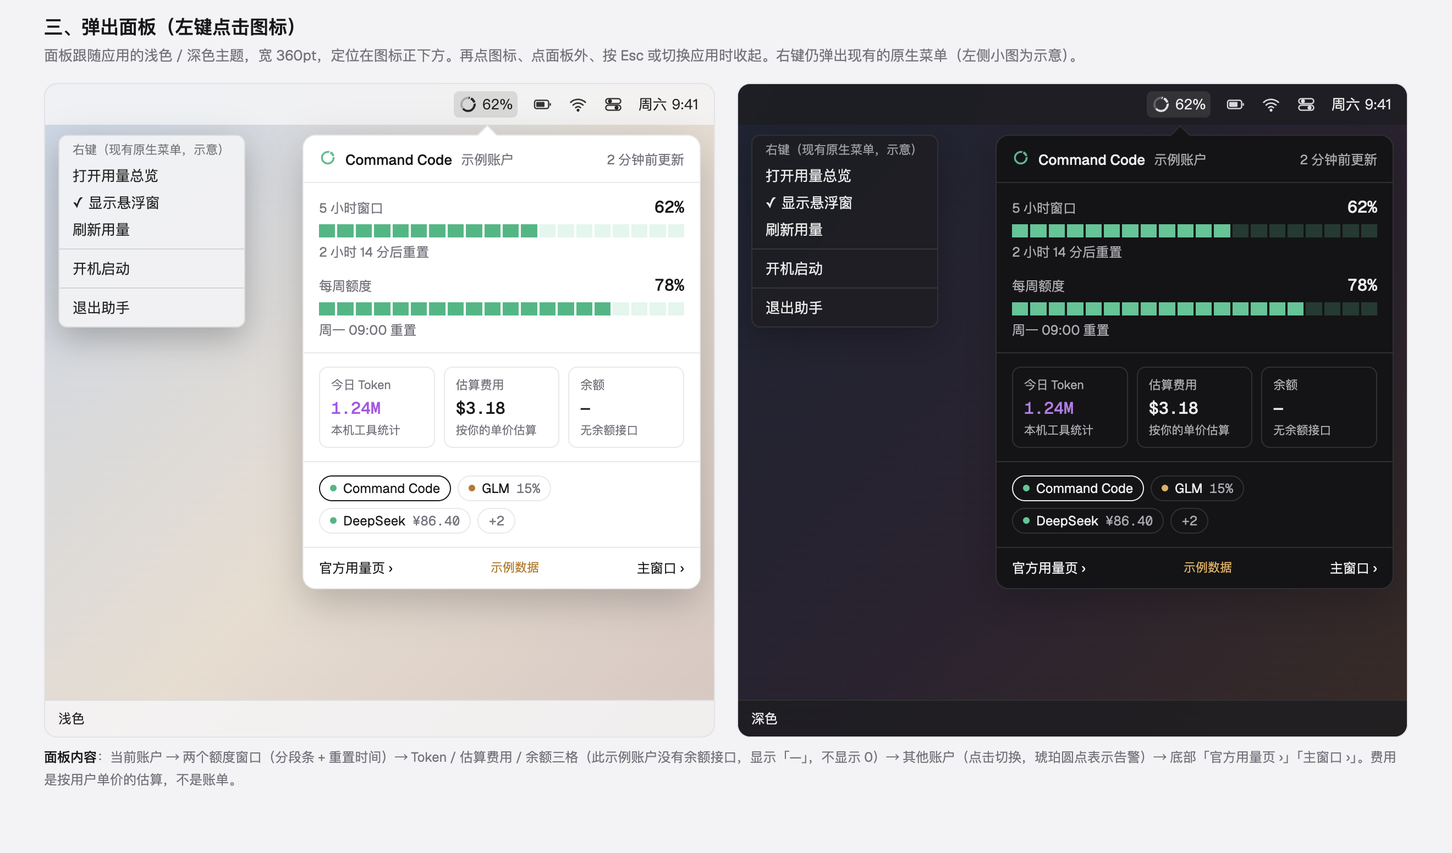
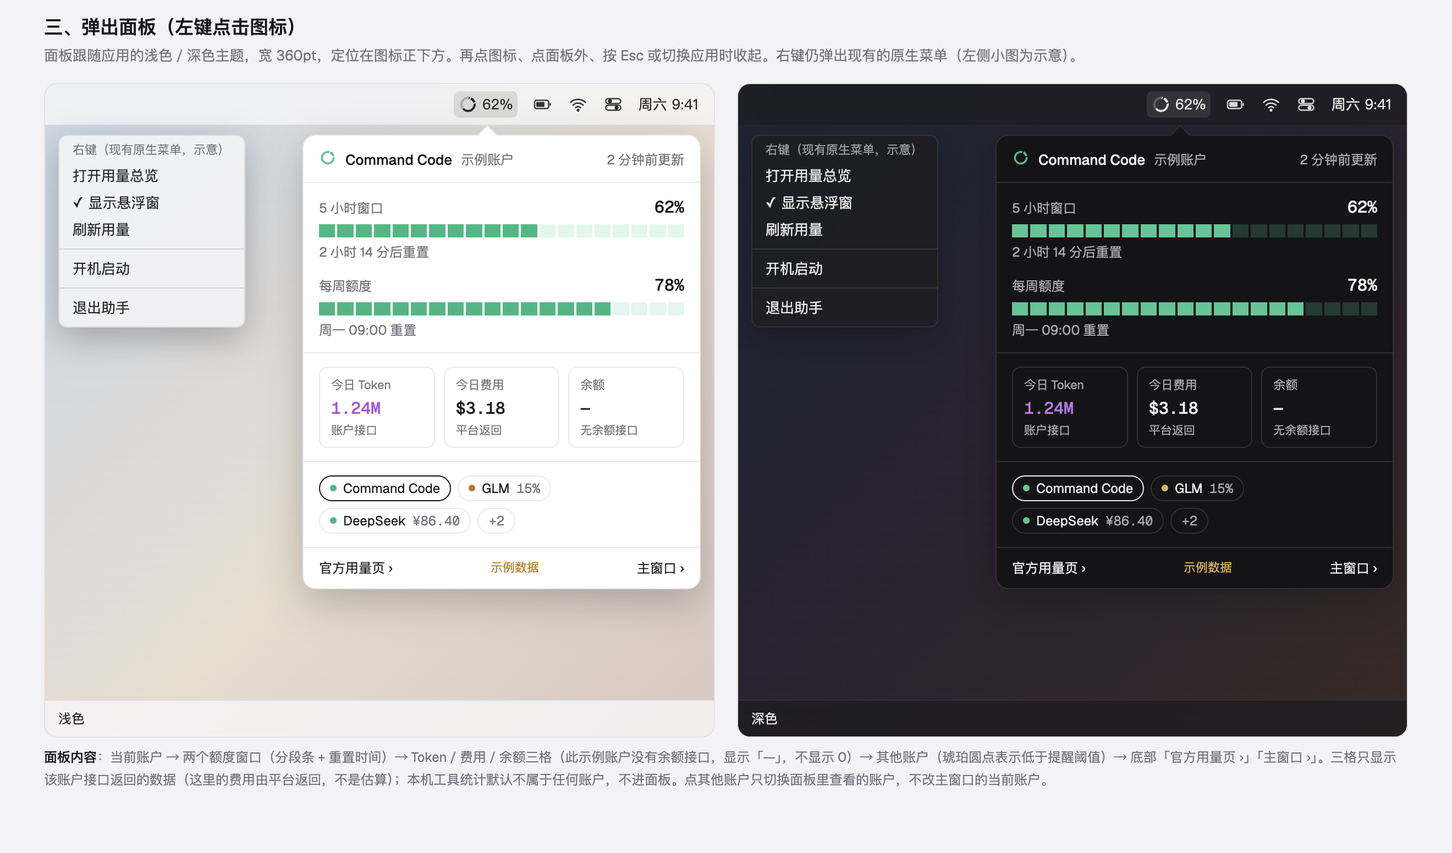
docs: settle the six menu-bar first-version decisions; correct the mock's alert rule and cell captions

diff --git a/docs/island-1.9.0-design/menubar-proposals.html b/docs/island-1.9.0-design/menubar-proposals.html
@@ -432,7 +432,7 @@
 
       <h2>二、各状态对照（2 倍放大）</h2>
       <div class="sub">
-        同一形态在不同数据状态下的表现。告警阈值沿用现有规则：剩余 &lt;20% 琥珀、&lt;10% 红；缺数据不告警。
+        同一形态在不同数据状态下的表现。告警沿用应用现有规则：剩余低于「提醒阈值」（设置里 10 / 20 / 30%，默认 20%）为琥珀，额度用尽为红；缺数据不告警。
       </div>
       <div id="states"></div>
       <div class="note">
@@ -456,8 +456,8 @@
         </div>
       </div>
       <div class="note">
-        <b>面板内容</b>：当前账户 → 两个额度窗口（分段条 + 重置时间）→ Token / 估算费用 / 余额三格（此示例账户没有余额接口，显示「—」，不显示 0）→
-        其他账户（点击切换，琥珀圆点表示告警）→ 底部「官方用量页 ›」「主窗口 ›」。费用是按用户单价的估算，不是账单。
+        <b>面板内容</b>：当前账户 → 两个额度窗口（分段条 + 重置时间）→ Token / 费用 / 余额三格（此示例账户没有余额接口，显示「—」，不显示 0）→
+        其他账户（琥珀圆点表示低于提醒阈值）→ 底部「官方用量页 ›」「主窗口 ›」。三格只显示该账户接口返回的数据（这里的费用由平台返回，不是估算）；本机工具统计默认不属于任何账户，不进面板。点其他账户只切换面板里查看的账户，不改主窗口的当前账户。
       </div>
     </div>
 
@@ -488,7 +488,8 @@
           <path d="${MARK}" fill="currentColor" fill-rule="evenodd" opacity="0.28"/>
           <g clip-path="url(#${id})" fill="${fill}">${wedge}</g></svg>`;
       }
-      const tone = (p) => (p === null ? '' : p < 0.1 ? 'red' : p < 0.2 ? 'amber' : '');
+      // Existing app rule: below the reminder threshold (default 20%) is amber; exhausted is red.
+      const tone = (p) => (p === null ? '' : p <= 0 ? 'red' : p < 0.2 ? 'amber' : '');
       const color = (p) => (tone(p) ? `var(--${tone(p)})` : 'currentColor');
       const pct = (p) => (p === null ? '—' : Math.round(p * 100) + '%');
 
@@ -549,12 +550,12 @@
           },
         ],
         [
-          '红色告警',
+          '红色（额度用尽）',
           {
-            p: 0.06,
-            text: '6%',
+            p: 0,
+            text: '0%',
             lines: [
-              ['5h', '6%', 0.06],
+              ['5h', '0%', 0],
               ['周', '41%', 0.41],
             ],
           },
@@ -609,8 +610,8 @@
           </div>
           <div class="sec">
             <div class="cells">
-              <div><small>今日 Token</small><b class="token">1.24M</b><em>本机工具统计</em></div>
-              <div><small>估算费用</small><b>$3.18</b><em>按你的单价估算</em></div>
+              <div><small>今日 Token</small><b class="token">1.24M</b><em>账户接口</em></div>
+              <div><small>今日费用</small><b>$3.18</b><em>平台返回</em></div>
               <div><small>余额</small><b>—</b><em>无余额接口</em></div>
             </div>
           </div>

diff --git a/IMPROVEMENT_PLAN.md b/IMPROVEMENT_PLAN.md
@@ -50,7 +50,7 @@
 |---|---|---|---|
 | D1 | CI 就绪前的交付规则 | **过渡方案**：<br>• 不改变应用行为的任务（阶段 1–2、纯重构）不出包。<br>• 改变行为的任务在本机出 Mac 包（DMG + ZIP），Windows 双包在执行记录中明确标「待 CI 补齐」，不得写成已交付。<br>• T2.3 完成后，三种包统一由 CI 产出。 | T3.x 起所有改行为的任务 |
 | D2 | 是否建 GitHub 仓库做 CI | **建私有仓库**（只放源码） | T2.1–T2.4 |
-| D3 | 版本号策略 | 阶段 1–2 不升版本。之后每个阶段出一个测试版：阶段 3 = 1.8.0-beta.6，阶段 4 = beta.7，阶段 5 = beta.8，阶段 6 = beta.9。1.9.0 留给灵动岛。版本号只在阶段的最后一个任务合并时修改。 | 阶段 3 起的打包 |
+| D3 | 版本号策略 | 阶段 1–2 不升版本。之后每个阶段出一个测试版：阶段 3 = 1.8.0-beta.6，阶段 4 = beta.7，阶段 5 = beta.8，阶段 6 = beta.9。1.9.0 留给灵动岛。版本号只在阶段的最后一个任务合并时修改。<br>**2026-10-18 调整（用户决定）**：菜单栏首版（T7.3–T7.8）合并时升为 **1.9.0-beta.1**；阶段 6 之后顺延为 1.9.0-beta.x，不再发 1.8.0-beta.9 | 阶段 3 起的打包 |
 | D4 | 是否购买 Apple Developer 账号 | **暂不购买**。T3.5 跳过；Mac 继续使用 ad-hoc 签名、不做公证，因此 Keychain 升级弹框的风险继续存在（由 T3.4 兜底），Mac 也不做自动更新（Squirrel.Mac 要求正式签名）。 | T3.5（跳过）、T3.4、T5.2 |
 | D5 | 旧浏览器原型和 Sites 兼容文件 | **删除**。用户明确撤销 AGENTS.md 中「保留 `.openai/hosting.json`、`worker/index.js`、`scripts/prepare-sites-build.mjs`、`tests/sites-worker.test.mjs`」的要求，以及「保留原浏览器原型作为参考」的要求。 | T1.2、T1.4 |
 | D6 | 仓库杂物 | **全部处理**：删除 `pelican-bike.html`、`a/` 目录及所有 `.DS_Store`；`docs/island-1.9.0-design-handoff.zip` 不纳入 git；`release-v*/` 移到 `~/Documents/TokenUsageAssistant-releases/`。 | T1.1、T1.2 |
@@ -127,15 +127,15 @@
 | | T7.0b 按 D9 调整重写岛设计文档 | 否 | T7.1 | D9 | [x] |
 | | T7.1b 菜单栏图标与弹出面板方案草图（浅色/深色，D10） | 否 | T7.0b | D9、D10 | [x] |
 | | T7.2 实时尾随通道 | 是 | T4.2、T7.1 | D1 | [ ] |
-| | T7.3 菜单栏图标与面板 POC（开发开关，不随包发布）（草案，待确认） | 否（不发布） | T7.1b | D9 | [ ] |
-| | T7.4 菜单栏状态投影（纯模块 + 测试，不接线）（草案，待确认） | 否 | T7.1b | D9 | [ ] |
-| | T7.5 菜单栏动态图标接入（Mac）（草案，待确认） | 是 | T7.3、T7.4 | D1、D9 | [ ] |
-| | T7.6 弹出面板（Mac）（草案，待确认） | 是（UI） | T7.3、T7.4 | D1、D9、D10 | [ ] |
-| | T7.7 菜单栏设置项（草案，待确认） | 是（UI） | T7.5、T7.6 | D9、D10 | [ ] |
-| | T7.8 菜单栏首版收尾与发版（草案，待确认） | 是 | T7.5–T7.7 | D1、D3 | [ ] |
+| | T7.3 菜单栏图标与面板 POC（开发开关，不随包发布） | 否（不发布） | T7.1b | D9 | [ ] |
+| | T7.4 菜单栏状态投影（纯模块 + 测试，不接线） | 否 | T7.1b | D9 | [ ] |
+| | T7.5 菜单栏动态图标接入（Mac） | 是 | T7.3、T7.4 | D1、D9 | [ ] |
+| | T7.6 弹出面板（Mac） | 是（UI） | T7.3、T7.4 | D1、D9、D10 | [ ] |
+| | T7.7 菜单栏设置项 | 是（UI） | T7.5、T7.6 | D9、D10 | [ ] |
+| | T7.8 菜单栏首版收尾与发版 | 是 | T7.5–T7.7 | D1、D3 | [ ] |
 | | 之后 | 按 `docs/island-1.9.0-design/HANDOFF.md` §8：首版 → 增量一 → 增量二；刘海悬停面板（A）单独排期 | | | |
 
-推荐执行顺序：T1.1 → T1.2 → T1.3 → T1.4 → T2.1–T2.5 → T3.1 → T3.2 → T3.4 → T3.3 → T4.0 → T4.1 → T4.5 → T4.6 → T4.4 → T5.1 → T5.4 → T5.3a/b → T5.5 → T5.2 → T7.0 → T7.1 → T7.0b → T7.1b → T4.2 → T7.2 → T6.x（2026-10-18 按 D9 调整插入 T7.0b、T7.1b；2026-10-16 按 T4.0 结论调整：T4.3 跳过，T4.2 挪到 T7.2 之前，用户授权按最优解决定）。
+推荐执行顺序：T1.1 → T1.2 → T1.3 → T1.4 → T2.1–T2.5 → T3.1 → T3.2 → T3.4 → T3.3 → T4.0 → T4.1 → T4.5 → T4.6 → T4.4 → T5.1 → T5.4 → T5.3a/b → T5.5 → T5.2 → T7.0 → T7.1 → T7.0b → T7.1b → T7.3 → T7.4 → T7.5 → T7.6 → T7.7 → T7.8 → T4.2 → T7.2 → 增量一，T6.x 穿插（2026-10-18 用户确认菜单栏首版 T7.3–T7.8 排在 T4.2 之前；同日按 D9 调整插入 T7.0b、T7.1b；2026-10-16 按 T4.0 结论调整：T4.3 跳过，T4.2 挪到 T7.2 之前，用户授权按最优解决定）。
 
 T7.0 只是改文档，可以随时插队。
 
@@ -679,7 +679,7 @@ T7.0 只是改文档，可以随时插队。
   - 与分析查询同时运行时，两者都不被取消；
   - 用 T3.2 的日志记录 2 秒和 5 秒刷新间隔下的 CPU 耗时。
 
-#### 菜单栏首版：T7.3–T7.8（2026-10-18 拆分，草案，待用户确认本节末尾的待定问题）
+#### 菜单栏首版：T7.3–T7.8（2026-10-18 拆分；本节末尾的 6 个问题已由用户拍板）
 
 依据 `docs/island-1.9.0-design/HANDOFF.md`（T7.0b 重写、T7.1b 草图已批准）。每个改变行为的任务按 D1 交付（分支试跑 Release 工作流出包，不得把仅源码改动称为已交付）；界面改动按 D10 先出浅色 / 深色截图。**Windows 行为零改动**（托盘图标、点击打开主窗口、菜单都不变）。
 
@@ -698,7 +698,7 @@ T7.0 只是改文档，可以随时插队。
 **T7.4 菜单栏状态投影（纯模块 + 测试，不接线，不改变行为）**
 
 - 新建 `desktop/menubar-status.cjs`：输入各账户的规范化状态与设置，输出 `{ accountId, windowId, ring: number|null, text, lines: [{ label, text, tone }], tone: 'normal'|'amber'|'red' }`，与形态无关，三种形态共用。
-- 规则（HANDOFF §3.2）：槽位四型；告警等级口径见待定 1；账户优先级：红 > 琥珀（同级时最快重置）> 窗口剩余最少 > 当前账户；缺数据显示「—」不填 0；resetAt=0「未启用」；不限「不限」；余额只显示原始币种数字，不当仪表、不换汇、不合并；③ 的两行标签取窗口名缩写，只有一个窗口时只显示一行；离线 / 凭据失效时沿用主窗口现有的「上次成功值 + 过期」语义。
+- 规则（HANDOFF §3.2）：槽位四型；告警等级沿用应用现有规则（剩余低于「提醒阈值」为琥珀，额度用尽或月度余额 ≤0 为红，见决定 1）；账户优先级：红 > 琥珀（同级时最快重置）> 窗口剩余最少 > 当前账户；缺数据显示「—」不填 0；resetAt=0「未启用」；不限「不限」；余额只显示原始币种数字，不当仪表、不换汇、不合并；③ 的两行标签取窗口名缩写，只有一个窗口时只显示一行；离线 / 凭据失效时沿用主窗口现有的「上次成功值 + 过期」语义。
 - `AccountManager` 增加只读的 `summaries()`，只给出投影需要的最小字段，现有对外状态不变。
 - 测试：每种槽型、优先级与并列、全部缺失、单账户、20 个账户上限、余额与订阅混合。加入 `pnpm run typecheck` 的严格模块列表。
 
@@ -711,7 +711,7 @@ T7.0 只是改文档，可以随时插队。
 
 **T7.6 弹出面板（Mac）**
 
-- 新增渲染面 `surface=panel`（`src/Panel.jsx`），按已批准草图实现：宽 360pt、跟随应用主题；当前账户、两个额度窗口（复用现有分段条和重置描述）、三格（数据来源见待定 2）、其他账户（行为见待定 3）、底部「官方用量页 ›」（复用现有 `officialUrl` 白名单）和「主窗口 ›」。
+- 新增渲染面 `surface=panel`（`src/Panel.jsx`），按已批准草图实现：宽 360pt、跟随应用主题；当前账户、两个额度窗口（复用现有分段条和重置描述）、三格（只显示该账户接口返回的数据，见决定 2）、其他账户（只切换面板内查看的账户，见决定 3）、底部「官方用量页 ›」（复用现有 `officialUrl` 白名单）和「主窗口 ›」。
 - 窗口：无边框、不可调整大小，定位与收起按 T7.3 结论；安全设置与主窗口 / 悬浮窗一致（sandbox、contextIsolation、`will-navigate` 只允许 `?surface=panel`、权限请求一律拒绝），`trusted()` 加入面板窗口；内容保护默认开。
 - Mac 托盘：去掉 `setContextMenu`，左键开关面板，右键弹出原有菜单（菜单项不变）。
 - 键盘：Tab / Enter / Esc。
@@ -727,16 +727,16 @@ T7.0 只是改文档，可以随时插队。
 **T7.8 首版收尾与发版**
 
 - 更新 CHANGELOG、PROJECT_HANDOFF、AGENTS（§5 / §8 写入菜单栏图标与面板的规则）、Mac 验收清单（浅色 / 深色菜单栏、刘海遮挡、全屏空间里的面板、外接屏、屏幕共享时图标可见）。
-- 版本号见待定 5；改版本时新增升级 profile 和同版本 profile（RELEASING）；Release 工作流出四种包；真机验收由用户完成。
+- 版本号升为 1.9.0-beta.1（决定 5）；改版本时新增升级 profile 和同版本 profile（RELEASING）；Release 工作流出四种包；真机验收由用户完成。
 
-**待定问题（需要用户拍板）**
+**已定（用户 2026-10-18 全部同意执行模型的建议）**
 
-1. **告警等级口径**：设计文档和 T7.1b 草图注释写的「<20% 琥珀、<10% 红」与应用现有规则不一致。现有规则（`domain.cjs` 的告警判断、主窗口和悬浮窗的配色）：剩余低于「提醒阈值」（设置里可选 10 / 20 / 30%，默认 20%）为琥珀；额度用尽（`exceeded`）或月度余额 ≤0 为红。**建议沿用现有规则**，与主窗口、悬浮窗、通知一致，并更正设计文档与草图注释。
-2. **面板三格的数据来源**：草图注释写的「本机工具统计」「按你的单价估算」不准确。Command Code 的 Token 和费用来自账户接口的用量汇总（`parts.summary`，费用由平台返回，不是估算）；本机工具统计默认不属于任何账户（`accountId:null`），放在账户面板里会违反账户归属红线。**建议**：三格只显示该账户接口返回的数据（Token、费用、余额），没有就显示「—」，并标注「账户接口」；本机工具统计首版不进面板。
-3. **面板里点其他账户**：**建议**只切换面板里查看的账户，不改主窗口的当前账户；面板打开时默认显示菜单栏图标正在显示的那个账户（点红色图标就能直接看到告警的账户）。
-4. **首版范围**：**建议**余额告警阈值（③ 规定未设置前不告警，首版因此不发余额告警）、「指定账户与窗口」（首版只有自动）、重置完成微动效放到首版之后；快捷入口保留（复用现有官方页面链接）。
-5. **版本号**：建议菜单栏首版合并时升为 1.9.0-beta.1（D3 把 1.9.0 留给岛这条线），阶段 6 之后顺延为 1.9.0-beta.x；另一种是先做阶段 6 出 1.8.0-beta.9，再做菜单栏首版。
-6. **执行顺序**：建议 T7.3 → T7.4 → T7.5 → T7.6 → T7.7 → T7.8，之后 T4.2 → T7.2 → 增量一，T6.x 穿插。
+1. **告警等级口径**：设计文档和 T7.1b 草图注释写的「<20% 琥珀、<10% 红」与应用现有规则不一致。现有规则（`domain.cjs` 的告警判断、主窗口和悬浮窗的配色）：剩余低于「提醒阈值」（设置里可选 10 / 20 / 30%，默认 20%）为琥珀；额度用尽（`exceeded`）或月度余额 ≤0 为红。**定：沿用现有规则**，与主窗口、悬浮窗、通知一致；设计文档与草图注释已更正。
+2. **面板三格的数据来源**：草图注释写的「本机工具统计」「按你的单价估算」不准确。Command Code 的 Token 和费用来自账户接口的用量汇总（`parts.summary`，费用由平台返回，不是估算）；本机工具统计默认不属于任何账户（`accountId:null`），放在账户面板里会违反账户归属红线。**定**：三格只显示该账户接口返回的数据（Token、费用、余额），没有就显示「—」，并标注「账户接口」；本机工具统计首版不进面板。
+3. **面板里点其他账户**：**定**：只切换面板里查看的账户，不改主窗口的当前账户；面板打开时默认显示菜单栏图标正在显示的那个账户（点红色图标就能直接看到告警的账户）。
+4. **首版范围**：**定**：余额告警阈值（③ 规定未设置前不告警，首版因此不发余额告警）、「指定账户与窗口」（首版只有自动）、重置完成微动效放到首版之后；快捷入口保留（复用现有官方页面链接）。
+5. **版本号**：**定**：菜单栏首版合并时升为 1.9.0-beta.1，阶段 6 之后顺延为 1.9.0-beta.x（已写入 D3）。
+6. **执行顺序**：**定**：T7.3 → T7.4 → T7.5 → T7.6 → T7.7 → T7.8，之后 T4.2 → T7.2 → 增量一，T6.x 穿插。
 
 之后按 `docs/island-1.9.0-design/HANDOFF.md` §8 继续：首版 → 增量一 → 增量二。每一步都遵守 D1 的交付规则。
 

diff --git a/docs/island-1.9.0-design/HANDOFF.md b/docs/island-1.9.0-design/HANDOFF.md
@@ -79,12 +79,14 @@
   - ① **只有刻度环**：用已批准的刻度环 Logo 当仪表，亮起的格数 = 剩余比例。宽度与现在相同。
   - ② **刻度环 + 一个数值**：环右侧显示一个数（例如「62%」）。
   - ③ **两行小字**：环右侧上下两行，例如 5 小时和每周两个窗口。
-  - 颜色（已定）：平时单色（跟随菜单栏明暗）；告警时按程度变色——剩余 <20% 黄色（沿用现有琥珀色 token：浅色 `#ba7917`、深色 `#e3ad57`），<10% 红色（浅色 `#dc4c57`、深色 `#ee7580`）；刻度环亮起部分和数值一起变色。
+  - 颜色（已定）：平时单色（跟随菜单栏明暗）；告警时按程度变色，**沿用应用现有的告警规则**（2026-10-18 定）——剩余低于「提醒阈值」（设置里 10 / 20 / 30%，默认 20%）为黄色（琥珀色 token：浅色 `#ba7917`、深色 `#e3ad57`），额度用尽（`exceeded`）或月度余额 ≤0 为红色（浅色 `#dc4c57`、深色 `#ee7580`）；刻度环亮起部分和数值一起变色。
   - 刻度环画法（草图采用）：沿用 Logo 原外形，100% 时就是原 Logo；剩余越少，从上方缺口起顺时针亮起的部分越短，没亮的部分以浅色显示。缺数据、窗口未启用、余额账户时环不点亮。
 - **弹出面板（展开方式 B）**：
   - 左键点击菜单栏图标，在图标正下方弹出；再点图标、点面板外、按 Esc 或切换应用时收起。
   - 右键保留现有原生菜单（有新版本时的提示、打开用量总览、显示悬浮窗、刷新用量、开机启动、退出助手等）。
-  - 面板内容沿用原岛面板设计：双配额（分段条 + 重置时间）、Token / 估算费用 / 余额三格（Token 紫色强调）、账户 chip 行、「主窗口 ›」；行项点击跳转主窗口对应视图。
+  - 面板内容沿用原岛面板设计：双配额（分段条 + 重置时间）、Token / 费用 / 余额三格（Token 紫色强调）、账户 chip 行、「官方用量页 ›」「主窗口 ›」；行项点击跳转主窗口对应视图。
+  - **三格只显示该账户接口返回的数据**（2026-10-18 定）：例如 Command Code 的 Token 和费用来自账户接口的用量汇总（费用由平台返回，不是估算）；接口没有的显示「—」并标注来源。本机工具统计默认不属于任何账户，不进面板。
+  - **点其他账户只切换面板里查看的账户**，不改主窗口的当前账户；面板打开时默认显示菜单栏图标正在显示的那个账户（2026-10-18 定）。
   - 面板跟随应用的浅色 / 深色主题（不同于刘海悬停面板，它不需要与硬件融合）；宽 360pt（已定）。
   - 面板可键盘操作（Tab 移动、Enter 打开、Esc 收起）。
 - **刘海悬停面板（展开方式 A，以后）**：鼠标在刘海停留约 150ms 后同一面板从刘海下落，移出约 200ms 后收回；近黑色；只在内建刘海屏启用，默认关闭。
@@ -102,7 +104,7 @@
 
 - **图标显示哪个账户 / 窗口**：告警中（红 > 琥珀；同级时显示最快重置的账户，④）> 窗口剩余最少 > 余额低于阈值 > 默认账户。③ 两行时同一账户的两个窗口各占一行；只有一个窗口时只显示一行。
 - **诚实红线**：resetAt=0 显示「未启用」，绝不发明 5h 倒计时；缺 reset 数据 = 「—」；余额不画百分比条，也不把刻度环当余额仪表；不从余额差推算消耗；订阅百分比永不套用于 API 余额；缺数据时刻度环灰色、数值「—」，不显示 0。
-- **告警**：窗口沿用现有 <20% 琥珀 / <10% 红；缺数据不告警。告警时图标显示告警的那个窗口，刻度环和数值按程度变黄 / 红（见 §3.1）。
+- **告警**：沿用应用现有规则——剩余低于「提醒阈值」为琥珀，额度用尽或月度余额 ≤0 为红；缺数据不告警。告警时图标显示告警的那个窗口，刻度环和数值按程度变黄 / 红（见 §3.1）。
 - **余额阈值（③）**：没有默认值。用户未设置阈值前**不发余额告警**；首次启用时引导用户**按币种分别设置**（USD、CNY 各自独立，不换汇、不合并）。
 
 ### 3.3 设置项
@@ -111,9 +113,9 @@
 
 - **菜单栏图标形态**：① 只有刻度环 / ② 刻度环 + 数值 / ③ 两行小字（**默认 ②**）。
 - **菜单栏图标显示用量**（默认开）：关闭后恢复静态 Logo，用于屏幕共享等场合（菜单栏图标不受内容保护覆盖）。
-- **图标内容**：自动（按 §3.2 优先级）/ 指定账户与窗口；指定的账户被删除或契约失效时回退自动，并在设置中标记。
+- **图标内容**：首版只有自动（按 §3.2 优先级）；「指定账户与窗口」放到首版之后，指定的账户被删除或契约失效时回退自动，并在设置中标记。
 - **告警时变色**（默认开）。
-- **余额告警阈值**：按币种分别设置，未设置不告警。
+- **余额告警阈值**（首版之后）：按币种分别设置，未设置不告警；首版因此不发余额告警。
 - **弹出面板截屏与共享保护**（默认开）：`setContentProtection`，如实标注 ScreenCaptureKit 例外。
 - **刘海悬停面板**（A，以后，默认关）。
 - 「消耗瞬态提示」「步进刷新频率」等随增量一加入。
@@ -127,7 +129,7 @@
 | 菜单栏动态图标 | 按 §3.1 选定的形态 | **首版** |
 | 弹出面板（B） | 左键弹出，右键原生菜单 | **首版** |
 | 截屏 / 共享保护 | 面板窗口；设置开关 | **首版** |
-| 微动效 | 重置完成：面板分段条回满绿 + 800ms 单次柔光，不循环；菜单栏图标不做动画 | **首版** |
+| 微动效 | 重置完成：面板分段条回满绿 + 800ms 单次柔光，不循环；菜单栏图标不做动画 | 首版之后 |
 | 快捷入口 | 面板底部「官方用量页 ›」，仅打开官方页面链接，不代登录不抓取 | **首版** |
 | 正在运行 · 实时会话 | 面板会话行（脉冲点 + 步进增量 + 「8s 前」）；三态：运行 / 空闲 / 「—」 | 增量一 |
 | 重置倒计时 | 面板窗口行倒计时；临期（<15min）时图标可切换为该窗口 | 增量一 |
@@ -164,6 +166,7 @@
 | ⑦ | 收纳态耳区遮挡菜单栏 | ~~由用户在设置中选择常显 / 仅告警时~~（随耳区作废） |
 | 新 | 收纳态与展开方式 | 收纳态 = 菜单栏状态图标；展开 B（点击弹出面板）必做；A（刘海悬停面板）以后可增添（2026-10-18） |
 | 新 | 菜单栏图标形态与面板 | 默认 ②「刻度环 + 一个数值」，可切换 ① ③；平时单色、告警按程度变黄 / 红；面板按 T7.1b 草图，宽 360pt（2026-10-18） |
+| 新 | 首版细则 | 告警沿用应用现有规则；三格只显示账户接口数据；面板内切换账户不影响主窗口；余额阈值、指定账户与窗口、重置微动效放到首版之后；首版版本 1.9.0-beta.1（2026-10-18） |
 
 ---
 
@@ -192,7 +195,7 @@
 
 | 文件 | 内容 |
 |---|---|
-| `menubar-proposals.html`、`menubar/` | T7.1b 菜单栏图标三种形态与弹出面板的浅色 / 深色草图（已批准：默认 ②，面板 360pt） |
+| `menubar-proposals.html`、`menubar/` | T7.1b 菜单栏图标三种形态与弹出面板的浅色 / 深色草图（已批准：默认 ②，面板 360pt；2026-10-18 按用户决定更正了告警口径和三格注释） |
 | `POC-REPORT.md`、`poc/` | T7.1 刘海 POC 的实测报告与截图（开发机 POC） |
 | `proposals.html` 及 `island-*.png` | 2026-10 初的耳区方案定稿页与分区截图（已作废，留作记录；面板部分仍可参考） |
 | `alert-takeover.html` / `.png` | 告警整耳接管参考稿（随耳区作废） |
